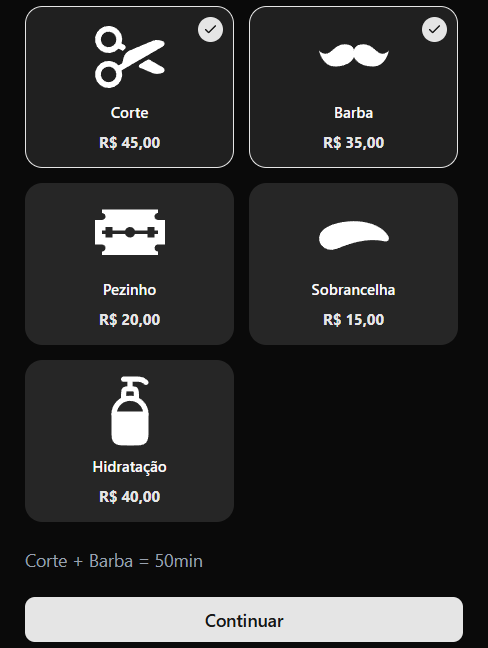
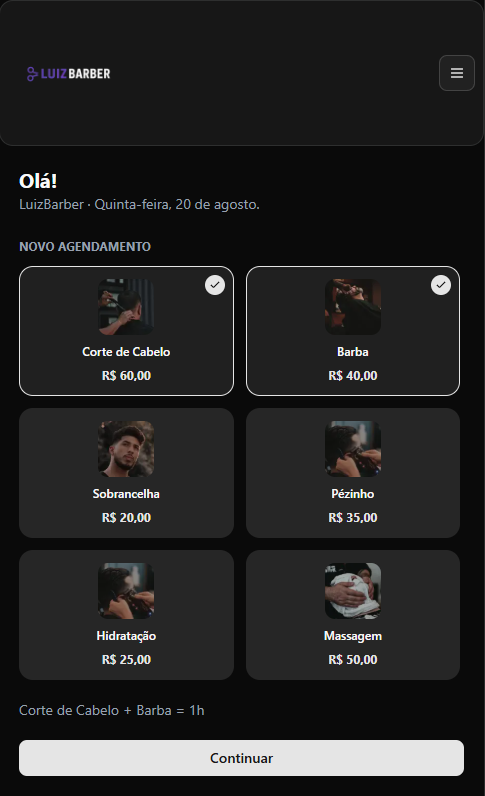
feat: usa capturas reais da barbearia e ajusta a demo por celular
Troca os placeholders por prints reais do agendamento, dos servicos e
do painel do barbeiro; remove a aba "Agendar sem login" (sem captura).
No DemoPlayer, o painel de fundo do frame de celular agora acompanha a
largura da imagem em vez de ocupar a coluna inteira.

diff --git a/src/data/case-studies/barbershop-appointment.ts b/src/data/case-studies/barbershop-appointment.ts
@@ -13,7 +13,7 @@ export const barbershopAppointment: CaseStudy = {
     "Tailwind CSS v4",
   ],
   problem:
-    "Numa barbearia de um barbeiro só, cada horário marcado era uma conversa: o cliente pergunta, o barbeiro confere a agenda, responde, anota. A agenda vivia na cabeça de uma pessoa — e bastava uma distração para dois clientes caírem no mesmo horário.",
+    "Numa visita a uma barbearia, vi a cena de perto: um cliente chegou no horário marcado e o barbeiro, sem graça, admitiu que tinha esquecido de registrar o agendamento. Não foi falta de cuidado, foi falta de sistema. Foi ali que nasceu a ideia do LuizBarber.",
   repo: "https://github.com/yamferreira/barbershop-appointment",
   apiDocs: null,
   architecture: {
@@ -23,45 +23,37 @@ export const barbershopAppointment: CaseStudy = {
   },
   demos: [
     // Capturas da aplicação rodando de verdade, com PostgreSQL local e
-    // dados criados pelo próprio fluxo de agendamento.
-    //
-    // Só a primeira está em largura de celular: o resto do card de
-    // agendamento tem conteúdo mais largo que 390px e sai cortado ali,
-    // então essas ficam em desktop até o layout dar conta.
+    // dados criados pelo próprio fluxo de agendamento. Todas em largura
+    // de celular: é como a interface é usada de verdade.
     {
       kind: "image",
       label: "Escolha de serviços",
       src: "/projects/barbeariaa/servicos.png",
       frame: "phone",
       caption:
-        "Seleção múltipla em grid; a duração total é somada em tempo real — Corte + Barba = 50min — e é ela que define quais horários vão sobrar.",
+        "Seleção múltipla em grid; a duração total é somada em tempo real (Corte de Cabelo + Barba = 1h) e é ela que define quais horários vão sobrar.",
     },
     {
       kind: "image",
-      label: "Calendário e horários",
-      src: "/projects/barbeariaa/horarios.png",
+      label: "Agendar horário",
+      src: "/projects/barbeariaa/agendamento.png",
+      frame: "phone",
       caption:
-        "Domingos e datas passadas já chegam desabilitados, mesmo os futuros. Os horários listados são só os que cabem nos 50min sem colidir nem passar do fechamento.",
-    },
-    {
-      kind: "image",
-      label: "Agendar sem login",
-      src: "/projects/barbeariaa/guest.png",
-      caption:
-        "Resumo do que foi escolhido e um único campo obrigatório: o nome. Telefone é opcional e não existe tela de cadastro no caminho.",
+        "Domingos e datas passadas já chegam desabilitados no calendário. Ao escolher o horário, o resumo mostra serviço, data e valor, e para confirmar só o nome é obrigatório; telefone é opcional e não existe tela de cadastro no caminho.",
     },
     {
       kind: "image",
       label: "Painel do barbeiro",
-      src: "/projects/barbeariaa/admin.png",
+      src: "/projects/barbeariaa/horariosbarbeiro.png",
+      frame: "phone",
       caption:
-        "Agenda do dia agrupada por status, cada linha mostrando o intervalo que ocupa — \"10:00, até 10:50\" é a mesma duração congelada que a checagem de conflito usa.",
+        "Dias com agendamento aparecem marcados no calendário; a lista mostra status e o intervalo que cada um ocupa (a mesma duração congelada que a checagem de conflito usa), com ações para concluir, cancelar ou reagendar.",
     },
   ],
   decisions: [
     {
       decision: "Conflito calculado por intervalo, não por horário exato",
-      why: "Um agendamento ocupa [início, início + duração). Um corte de 1h às 11:00 atropela quem tentar marcar às 12:00 sem repetir a data — comparar só o instante deixaria isso passar. Encostar, porém, não conta: quem termina 13:00 não colide com quem começa 13:00.",
+      why: "Um agendamento ocupa [início, início + duração). Um corte de 1h às 11:00 atropela quem tentar marcar às 12:00 sem repetir a data; comparar só o instante deixaria isso passar. Encostar, porém, não conta: quem termina 13:00 não colide com quem começa 13:00.",
     },
     {
       decision: "Defesa em três camadas para o mesmo horário",
@@ -69,11 +61,11 @@ export const barbershopAppointment: CaseStudy = {
     },
     {
       decision: "O índice único é parcial (WHERE status <> 'CANCELADO')",
-      why: "Um @@unique comum em `date` prenderia o horário para sempre depois de um cancelamento. Com o índice parcial, cancelar libera o slot automaticamente — sem job de limpeza e sem apagar o histórico.",
+      why: "Um @@unique comum em `date` prenderia o horário para sempre depois de um cancelamento. Com o índice parcial, cancelar libera o slot automaticamente, sem job de limpeza e sem apagar o histórico.",
     },
     {
       decision: "Booking.durationMinutes é um snapshot, não um cálculo",
-      why: "A duração é congelada na hora de reservar. Se o barbeiro mudar amanhã o tempo de um corte, a agenda de quem já marcou não pode ser reescrita por trás — e a checagem de conflito consegue ler o intervalo sem agregar a tabela de junção de serviços.",
+      why: "A duração é congelada na hora de reservar. Se o barbeiro mudar amanhã o tempo de um corte, a agenda de quem já marcou não pode ser reescrita por trás, e a checagem de conflito consegue ler o intervalo sem agregar a tabela de junção de serviços.",
     },
   ],
   snippet: {

diff --git a/src/components/case-study/DemoPlayer.tsx b/src/components/case-study/DemoPlayer.tsx
@@ -20,7 +20,7 @@ export type ResolvedDemo = ResolvedVideo | ResolvedLink | ResolvedImage;
  * interface, <video> mudo em loop (se comporta como GIF, com arquivo
  * muito menor) para uma chamada de API, e card clicável quando o vídeo
  * é longo demais para hospedar aqui. Com mais de uma, abas trocam
- * entre elas — e dá para misturar as três no mesmo projeto.
+ * entre elas, e dá para misturar as três no mesmo projeto.
  */
 export default function DemoPlayer({ demos }: { demos: ResolvedDemo[] }) {
   const [active, setActive] = useState(0);
@@ -76,7 +76,7 @@ function LocalVideo({ demo }: { demo: ResolvedVideo }) {
     <div className="overflow-hidden rounded-2xl border border-line bg-surface">
       {demo.available ? (
         <video
-          // A key força o React a recriar o elemento na troca de aba —
+          // A key força o React a recriar o elemento na troca de aba:
           // sem ela o <video> mantém o src antigo em cache.
           key={demo.src}
           src={demo.src}
@@ -109,7 +109,7 @@ function Screenshot({ demo }: { demo: ResolvedImage }) {
   return (
     <div
       className={`overflow-hidden rounded-2xl border border-line bg-surface ${
-        isPhone ? "px-6 py-8" : ""
+        isPhone ? "mx-auto max-w-[360px] px-4 py-5" : ""
       }`}
     >
       {demo.available ? (
@@ -144,7 +144,7 @@ function ExternalDemo({ demo }: { demo: ResolvedLink }) {
       href={demo.href}
       target="_blank"
       rel="noreferrer"
-      aria-label={`${demo.label} — abrir no ${demo.source}, em nova aba`}
+      aria-label={`${demo.label}, abrir no ${demo.source}, em nova aba`}
       className="group block overflow-hidden rounded-2xl border border-line bg-surface transition-colors duration-300 hover:border-white/20"
     >
       <div className="relative aspect-video w-full overflow-hidden bg-surface-2">
